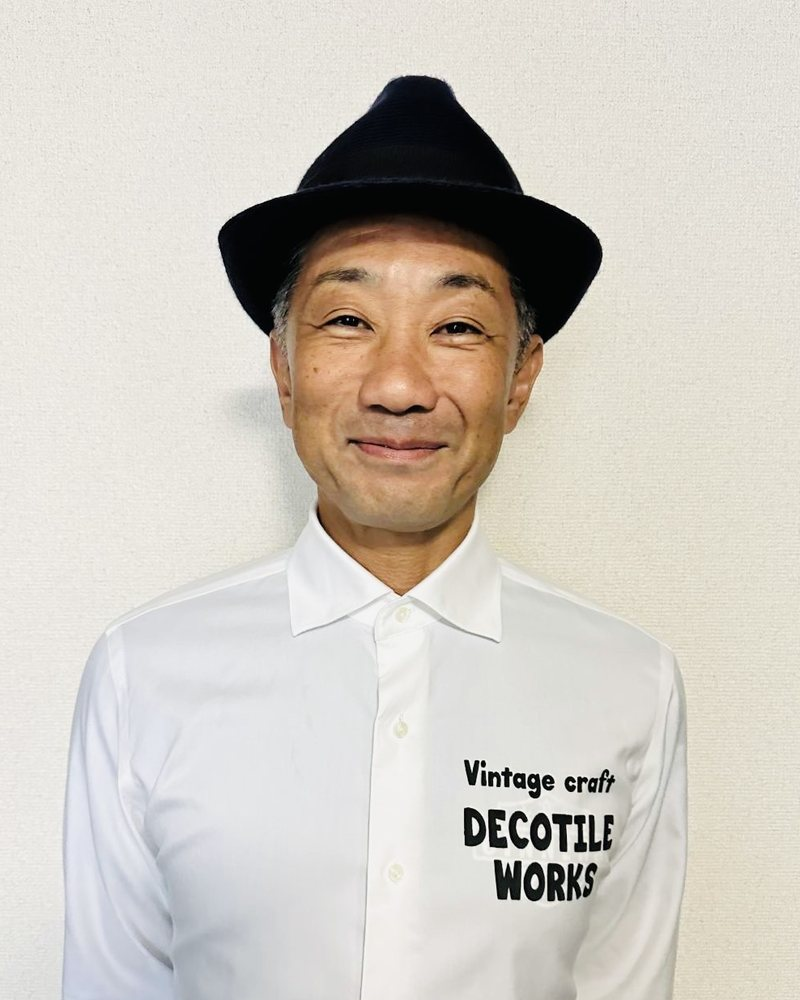
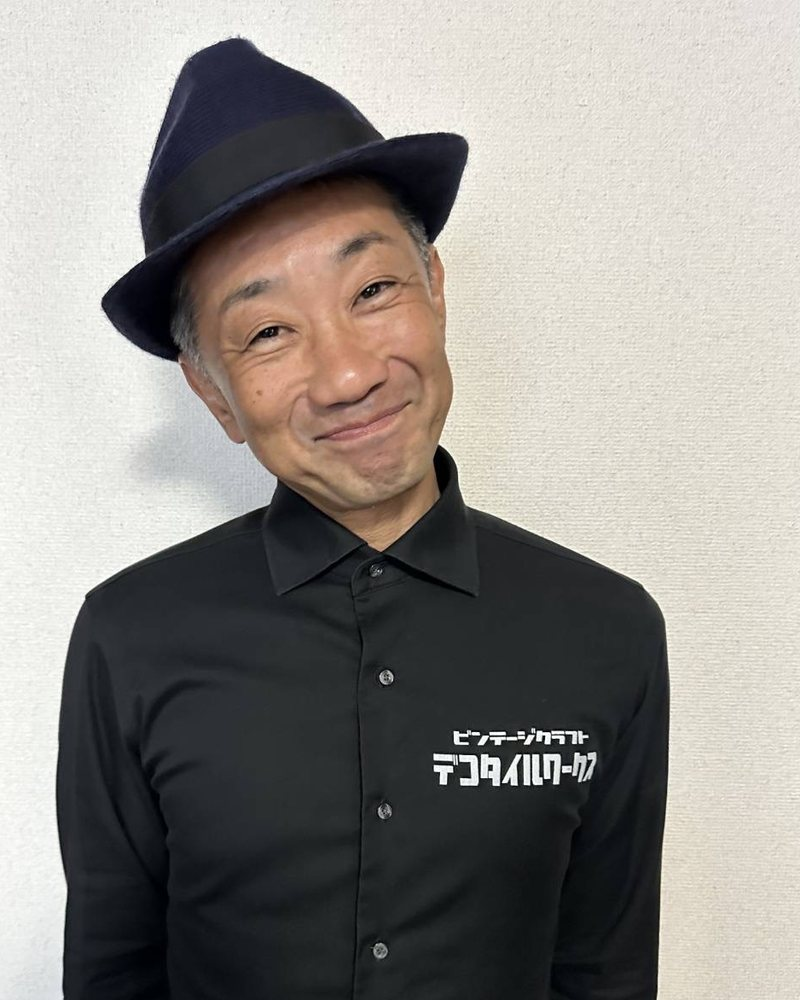
プロフィール写真を黒シャツの写真に差し替え
Claude-Session: https://claude.ai/code/session_01F3FznWZWDxQoSHXBMjXoZf

diff --git a/index.html b/index.html
@@ -153,7 +153,7 @@ img{max-width:100%}
 <p style="margin: 0 0 12px; font-size: 13px; letter-spacing: 0.3em; color: #B8322A; font-weight: 700">PROFILE</p>
 <h2 style="margin: 0; font-family: 'Shippori Mincho B1', serif; font-weight: 800; font-size: 38px; line-height: 1.4">深谷 哲之</h2>
 <p style="margin: 8px 0 0; font-size: 15px; letter-spacing: 0.2em; color: #5E5850">Takayuki Fukaya</p>
-<img src="images/profile.jpg" alt="DECOTILE WORKSのシャツを着た深谷哲之" width="800" height="1000" loading="lazy" style="display: block; width: 100%; max-width: 280px; height: auto; margin: 28px 0 0">
+<img src="images/profile.jpg" alt="デコタイルワークスの黒いシャツを着た深谷哲之" width="800" height="1000" loading="lazy" style="display: block; width: 100%; max-width: 280px; height: auto; margin: 28px 0 0">
 <p style="margin: 24px 0 0; font-size: 15px; color: #4A453F">1977年4月、群馬県生まれ。<br>群馬県を拠点に活動。<br>タイル職人 / デコタイル作家</p>
 </div>
 <div style="flex: 1 1 560px; min-width: 0; font-size: 17px; color: #3A3631">
